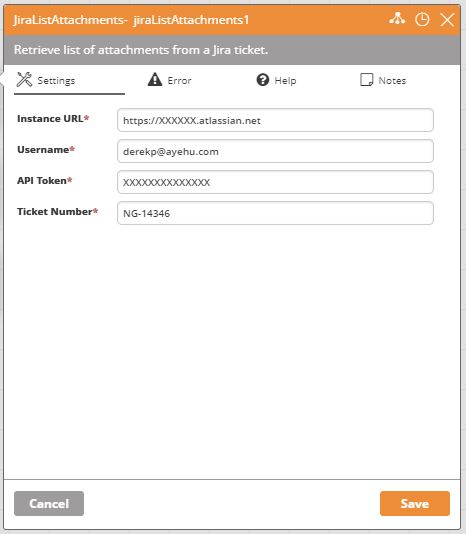
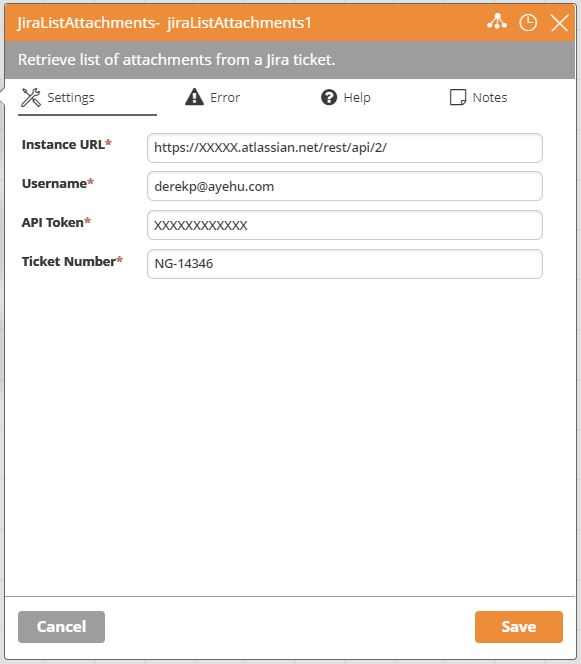
Add files via upload

diff --git a/Jira/JiraListAttachments/JiraListAttachments.cs b/Jira/JiraListAttachments/JiraListAttachments.cs
@@ -22,7 +22,7 @@ namespace Ayehu.Sdk.ActivityCreation
 
 		public ICustomActivityResult Execute()
 		{
-			string apiURL = instanceURL + "/rest/api/2/issue/" + ticketNumber + "?fields=attachment";
+			string apiURL = instanceURL + "/issue/" + ticketNumber + "?fields=attachment";
 			string contentType = "application/json";
 			string accept = "application/json";
 			string method = "GET";
